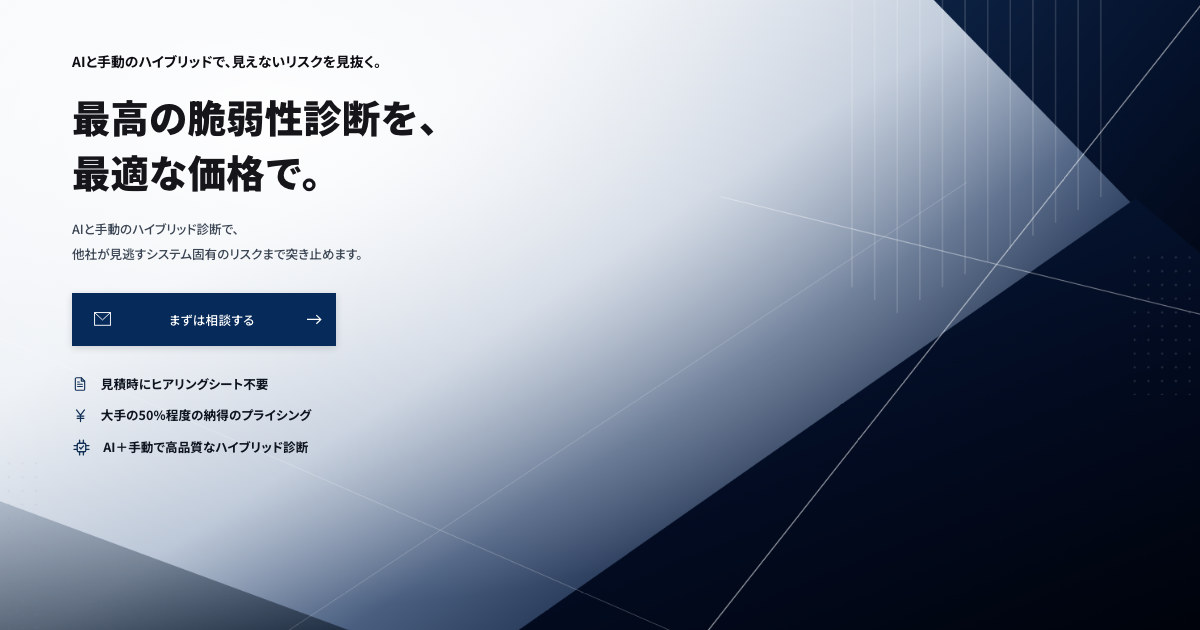
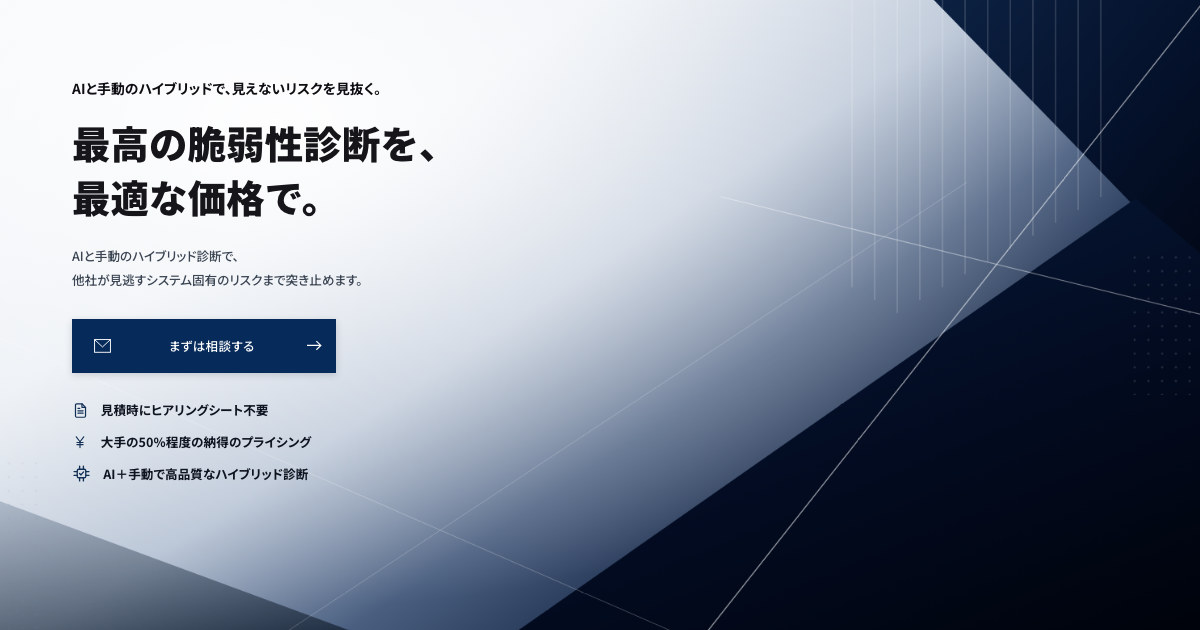
ヒーローのコピーを少し下へ寄せる
上下中央だと詰まって見えるので padding-top を足した。スマホは従来どおり。

Changed region(s): [[0.0617, 0.0905, 0.37, 0.7841]]

diff --git a/index.html b/index.html
@@ -161,6 +161,8 @@ a{text-decoration:none; color:inherit}
 /* ---------------- コピー ---------------- */
 .copy{display:flex; align-items:center}
 .copy .wrap{padding-bottom:clamp(10px,2vh,26px)}
+/* 全体を少し下へ寄せる（上下中央だと詰まって見える） */
+.copy .wrap{padding-top:clamp(28px,7vh,92px)}
 
 .eyebrow{
   font-size:clamp(12.5px,1.15vw,17px);
@@ -265,6 +267,7 @@ a{text-decoration:none; color:inherit}
   .hero__veil{display:none}   /* スマホは文字が別背景なのでブレンド不要 */
 
   .copy{order:2; display:block; padding:26px 0 30px}
+  .copy .wrap{padding-top:0}
   .cta{width:100%; height:54px; margin-top:22px}
   .cta__txt{padding-left:0}
 
